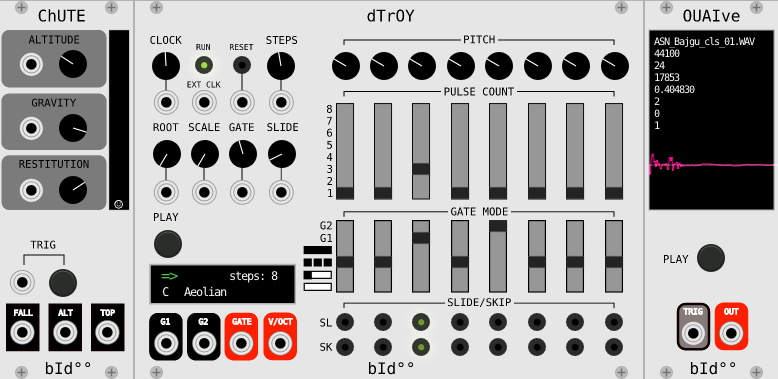
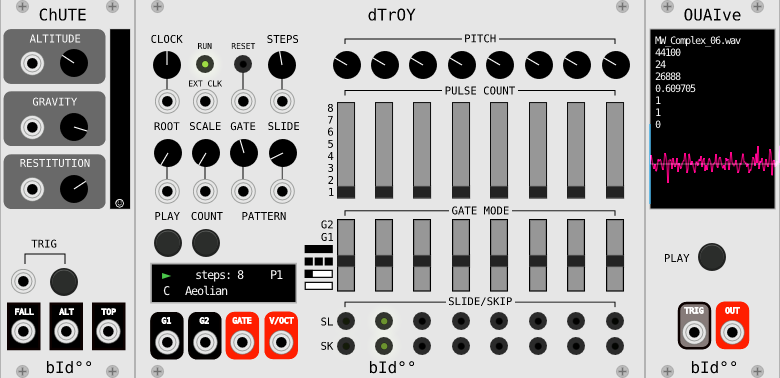
readme

diff --git a/README.md b/README.md
@@ -1,20 +1,20 @@
-# Bidoo's plugins for [VCVRack](https://vcvrack.com) 
+# Bidoo's plugins for [VCVRack](https://vcvrack.com)
 
 <!-- Version and License Badges -->
-![Version](https://img.shields.io/badge/version-0.5.0-green.svg?style=flat-square) 
-![License](https://img.shields.io/badge/license-BSD3-blue.svg?style=flat-square) 
-![Language](https://img.shields.io/badge/language-C++-yellow.svg?style=flat-square) 
+![Version](https://img.shields.io/badge/version-0.5.0-green.svg?style=flat-square)
+![License](https://img.shields.io/badge/license-BSD3-blue.svg?style=flat-square)
+![Language](https://img.shields.io/badge/language-C++-yellow.svg?style=flat-square)
 
 ![pack](/images/pack.png?raw=true "pack")
 
-## dTrOY 
+## dTrOY
 
 dTrOY is a single line sequencer but with nice features inspired by Metropolis hardware sequencer.
-dTrOy = Detroit + Toy ... 
+dTrOy = Detroit + Toy ...
 
 Features:
 - 8 trigs with pitch, number of pulses, slide and skip parameters
-- Each trig has its own gate mode : 
+- Each trig has its own gate mode :
 	- closed 0.0V on pulses
 	- first pulse open 10.0V then closed
 	- each pulse open according to gate time setting
@@ -22,22 +22,23 @@ Features:
 	- fully open passing Gate 1 input (you can send gates or audio :) )
 	- fully open passing Gate 2 input
 - Up to 16 steps pattern
-- 5 play modes : forward, backward, ping-pong, random, random neighbour
+- 5 play modes : forward, backward, ping-pong, random, random neighbor
+- 2 count modes : steps and pulses
 - Scale quantization and root note
 - Sync & reset sequencer
 - All parameters saved
 
-## OUAIve 
+## OUAIve
 
 OUAIve is a sample player and that's all. You choose the sample via the menu. You press play or you trig him at your convenience.
 If he is in a good mood, he will remind the sample that you selected.
 
-## ChUTE 
+## ChUTE
 
-ChUTE is a space/strange trigger based on the free fall and bouncing of an object. 
-You can change the drop altitude between 10cm and 3m, the gravity in between the moon's one and neptune's one. Earth is the default. 
+ChUTE is a space/strange trigger based on the free fall and bouncing of an object.
+You can change the drop altitude between 10cm and 3m, the gravity in between the moon's one and neptune's one. Earth is the default.
 And you can adjust the C.O.R. meaning the coefficient of restitution.
-Outputs provide a gate based on downside movments, the relative tension regarding the altitude ALT and TOP which exposes the tops of the rebounds.
+Outputs provide a gate based on downside movements, the relative tension regarding the altitude ALT and TOP which exposes the tops of the rebounds.
 
 The repository is based on development branch of Rack.
 
